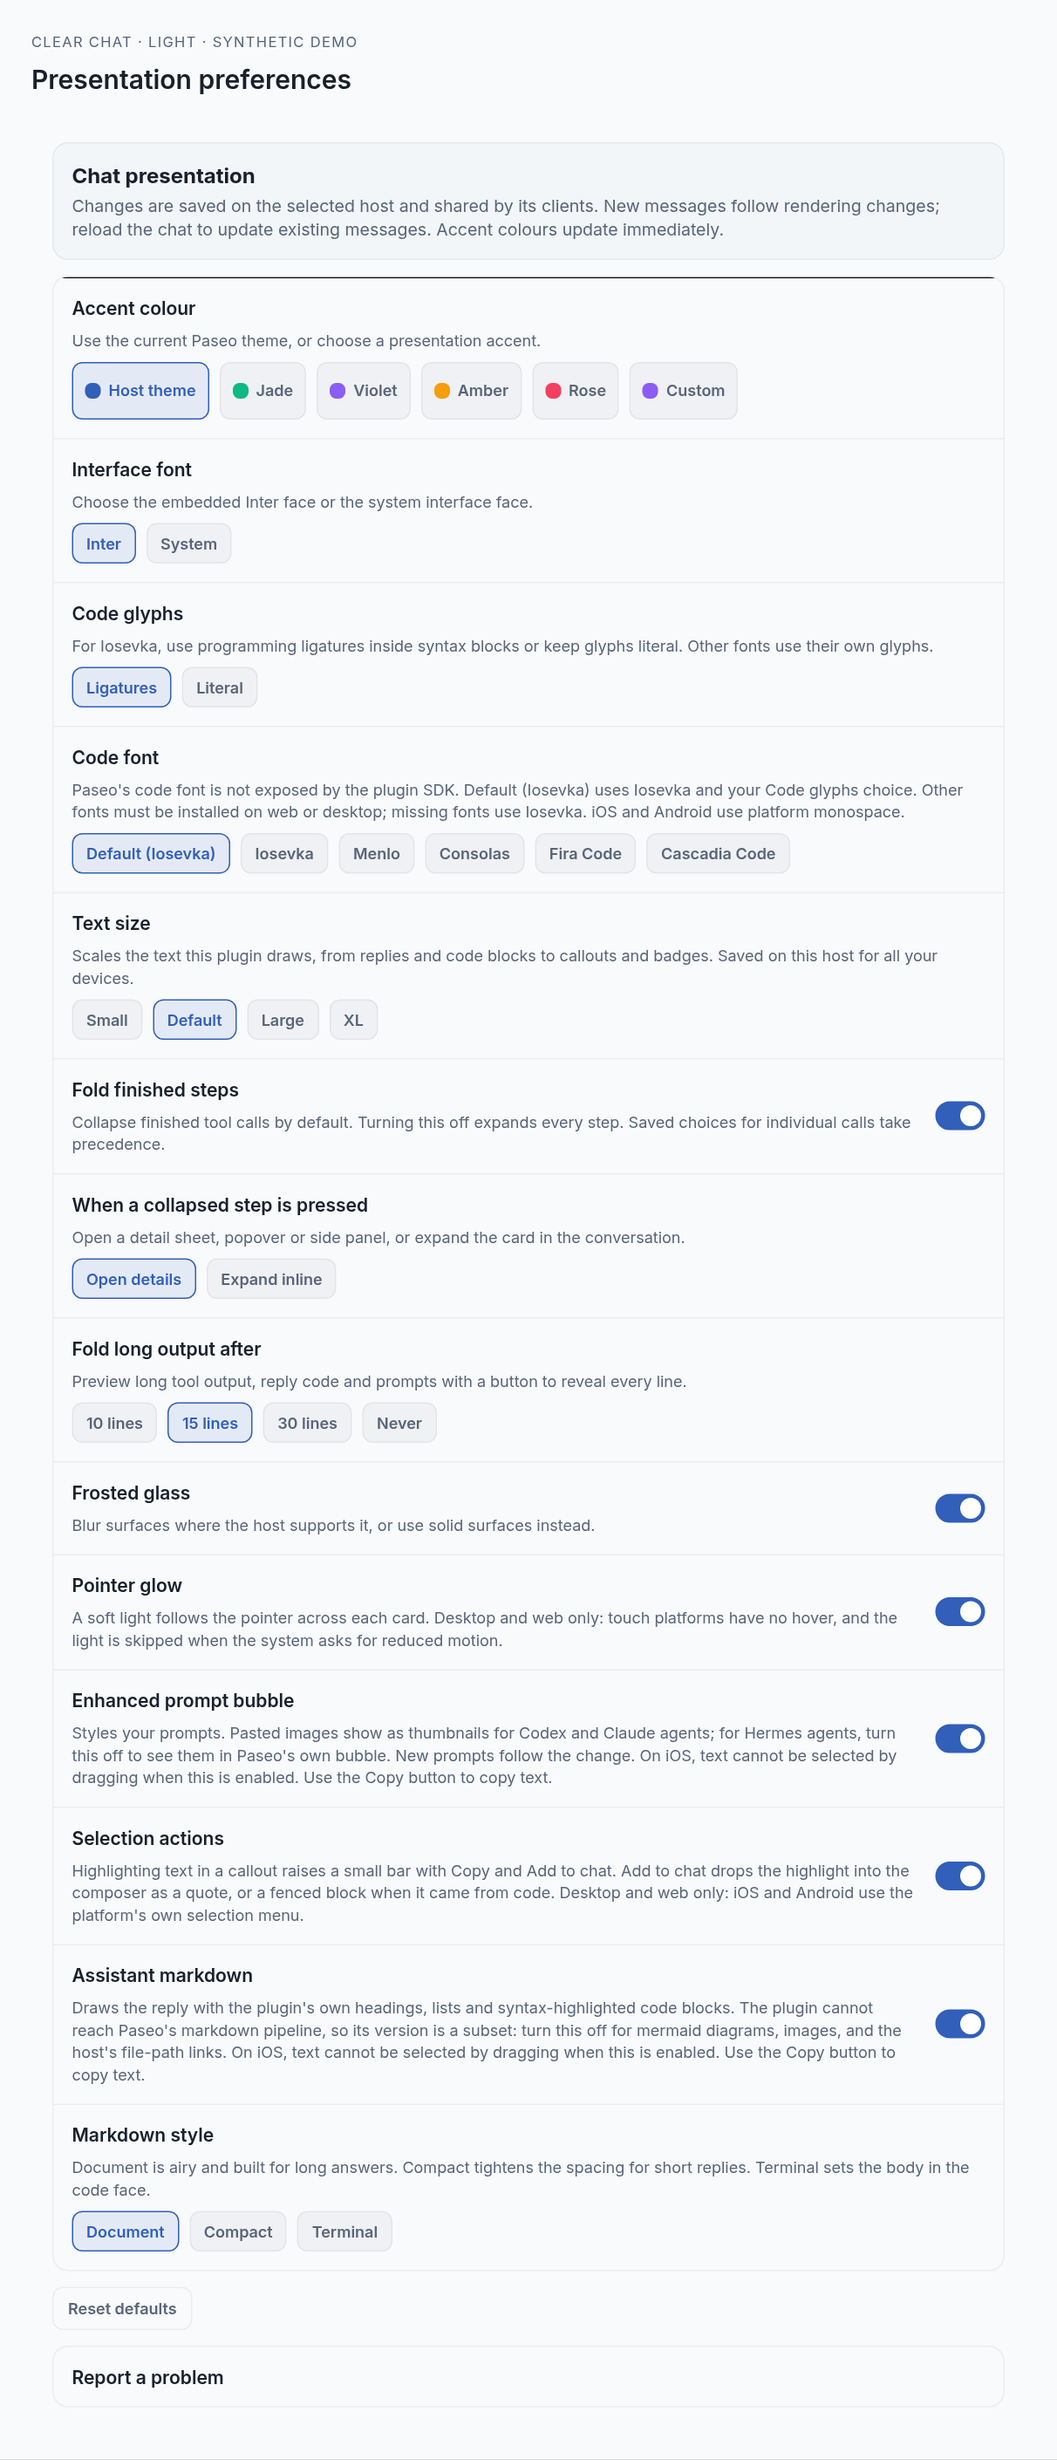
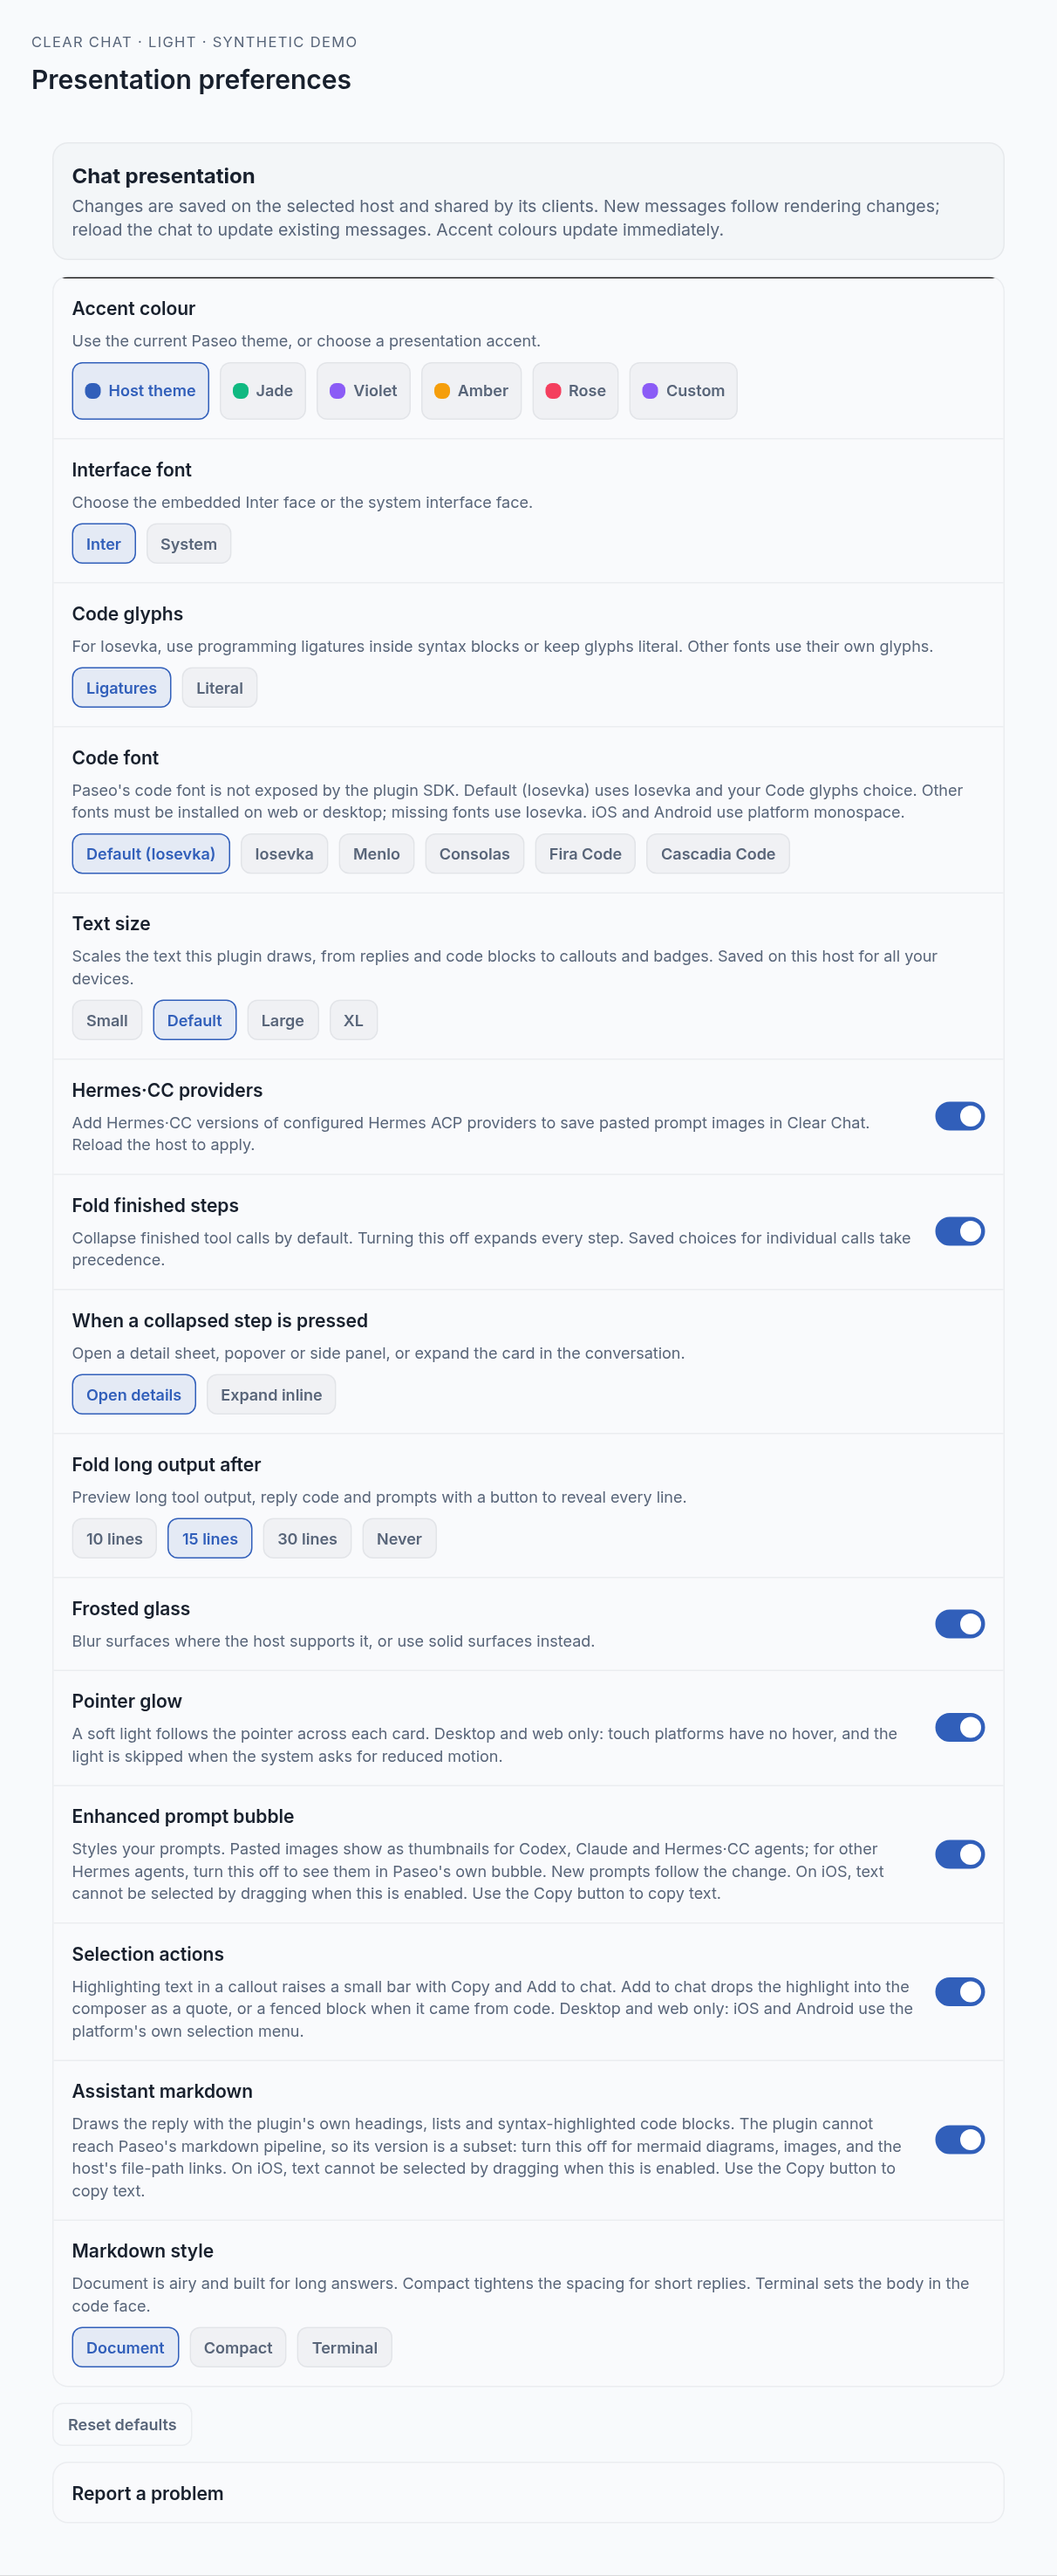
docs: retake settings screenshots for 0.13.1.1 (15 settings)

diff --git a/.showcase/shims/plugin-client.tsx b/.showcase/shims/plugin-client.tsx
@@ -20,8 +20,8 @@ export function useRpc() {
   return async () => ({}) as never;
 }
 
-export function useSettings() {
-  return { status: "ready" } as never;
+export function useSettings(definition: { schema: { parse(value: unknown): unknown } }) {
+  return { status: "ready", values: definition.schema.parse({}) } as never;
 }
 
 export { defineTranslations, useTranslation, PluginTranslationProvider, PluginTranslationRuntime } from "../../node_modules/@getpaseo/plugin/dist/client/translations.js";
